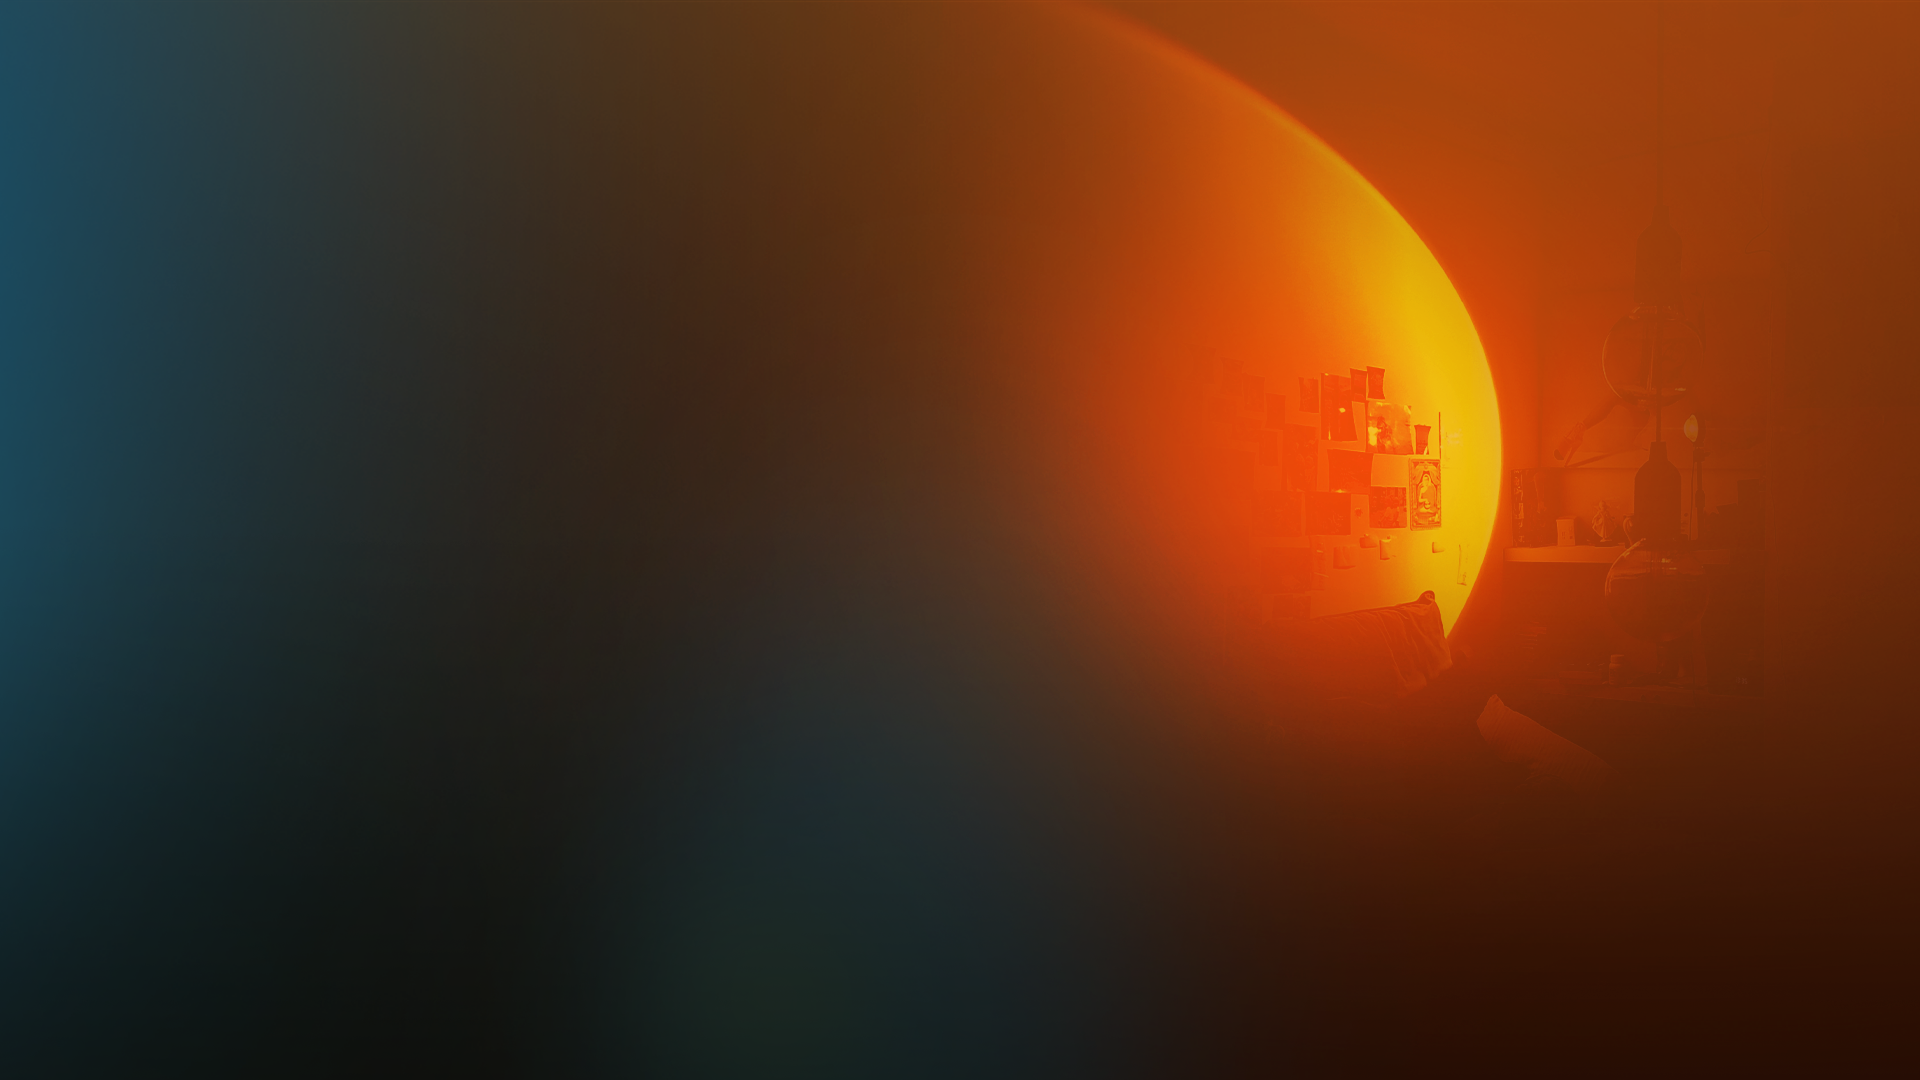
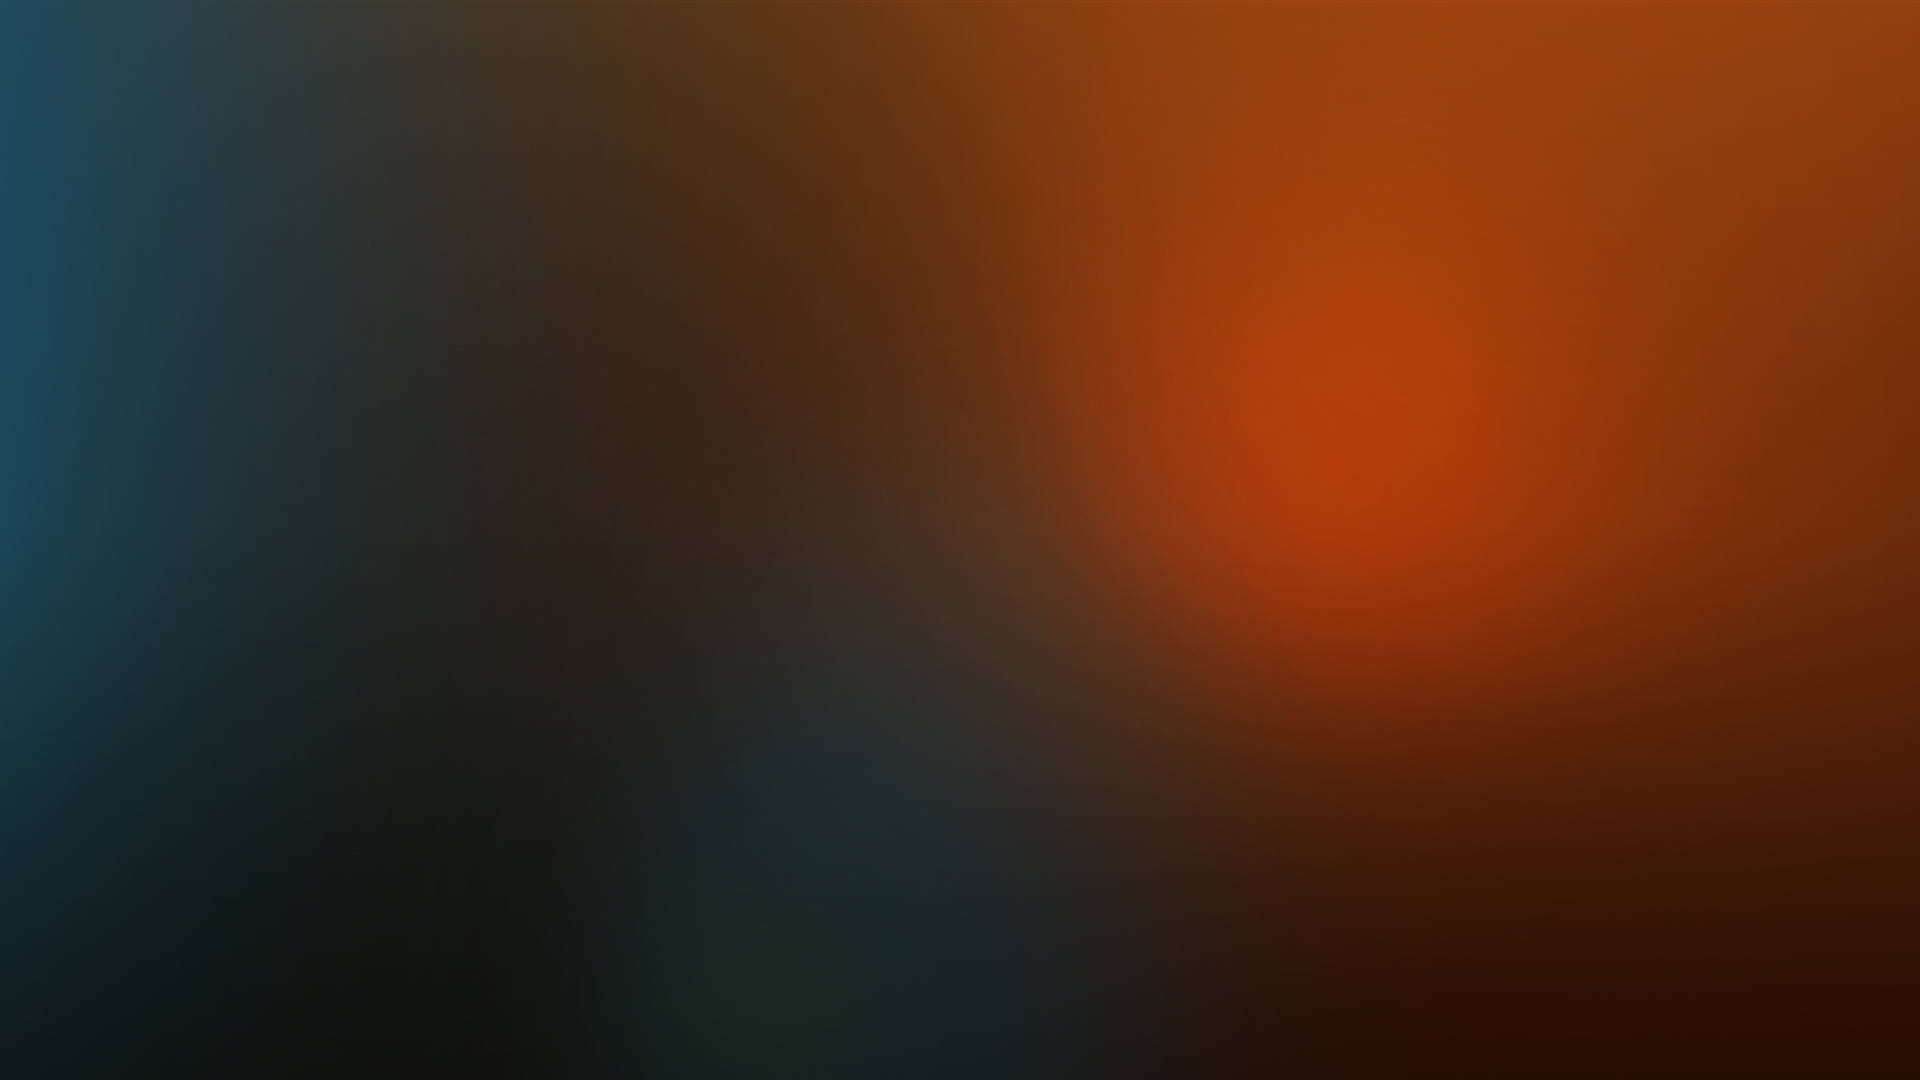
contact section 배경 이미지 변경 및 추가

Changed region(s): [[0.5312, 0.0, 0.9062, 0.7028]]

diff --git a/src/components/contact.jsx b/src/components/contact.jsx
@@ -1,6 +1,8 @@
-import React from "react";
+import React, { useState } from "react";
 
 export default function Contact() {
+
+    const [url, setUrl] = useState('https://hyelin213.github.io/HYLN-PortfolioSite');
 
     return (
         <>
@@ -14,6 +16,7 @@ export default function Contact() {
                         <path d="M10.8333 13.1918C10.8333 14.1834 10.4667 15.1001 9.85 15.8251C9.025 16.8251 7.71666 17.4668 6.25 17.4668L4.075 18.7584C3.70833 18.9834 3.24166 18.6751 3.29166 18.2501L3.5 16.6084C2.38333 15.8334 1.66666 14.5918 1.66666 13.1918C1.66666 11.7251 2.45 10.4334 3.65 9.66678C4.39166 9.18345 5.28333 8.90845 6.25 8.90845C8.78333 8.90845 10.8333 10.8251 10.8333 13.1918Z" stroke="#F97904" stroke-width="1.5" stroke-linecap="round" stroke-linejoin="round" />
                     </svg>
                 </div>
+                <img src={`${url}/images/contact-bg-active.png`} alt="배경화면 포인트 이미지" />
             </div>
         </>
     );

diff --git a/src/style/style-PC.css b/src/style/style-PC.css
@@ -1081,7 +1081,7 @@
 
 /* contact section =========== Start Line ====================================== */
 #contact {
-    background-image: url('./style-assets/images/contact-bg.png');
+    background-image: url('../../public/images/contact-bg.png');
     background-size: cover;
     font-family: 'Noto Sans KR', sans-serif;
     color: #fff;
